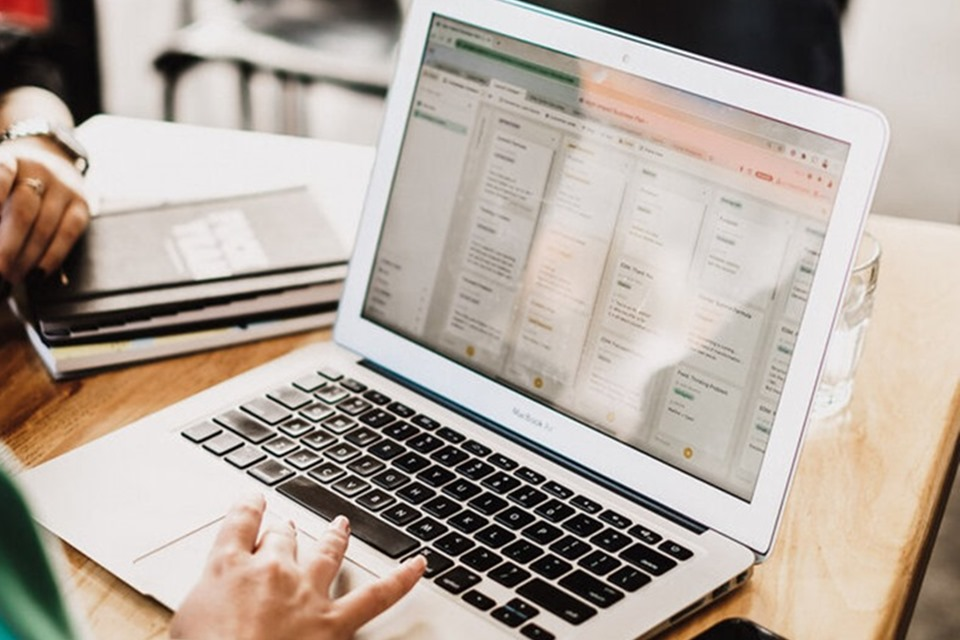
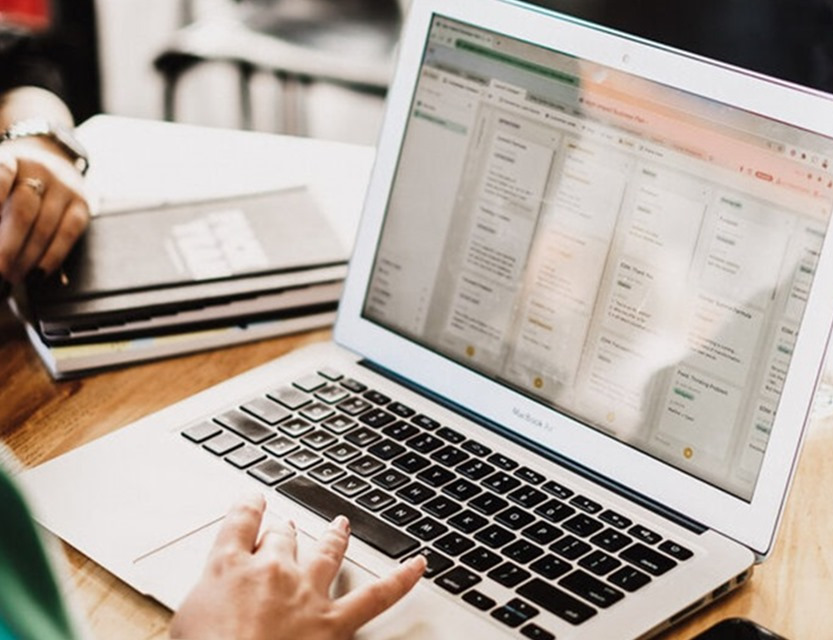
Ajustes al hero

diff --git a/src/App.jsx b/src/App.jsx
@@ -38,12 +38,12 @@ function App() {
   const heros = [
     {
       title: "Lleva tu contabilidad con estrategias fiscales y empresariales",
-      subtitle1: "¡Despreocúpate de tu contabilidad! Maneja tus asuntos contables con nosotros de forma segura y confiable",
+      subtitle1: "¡Despreocúpate de tu contabilidad! Maneja tus asuntos contables con nosotros de forma segura",
       img: img1
     },
     {
-      title: "Lleva tu contabilidad general con nosotros",
-      subtitle1: "Manejamos todo lo relacionado con declaraciones fiscales",
+      title: "Lleva tu contabilidad general con el apoyo de nosotros",
+      subtitle1: "Manejamos todos los trámites relacionados con declaraciones fiscales basados en nuestros valores",
       img: img2 
     }
   ]

diff --git a/src/Components/Hero.jsx b/src/Components/Hero.jsx
@@ -30,7 +30,7 @@ const Hero = (props) => {
     },
   }));
 
-  return <Box sx={{backgroundColor: "#E6F0FF"}} height={{ xs: "950px", sm: "65vh" }}>
+  return <Box sx={{backgroundColor: "#E6F0FF"}} height={{ xs: "880px", sm: "65vh" }}>
     <Grid container >
       <Grid item xs={12} sm={6}>
         <Box sx={{flex: "1"}} mx={{ xs: '30px', sm:'60px' }} my={{ xs: '30px', sm:'60px' }}>
@@ -65,9 +65,9 @@ const Hero = (props) => {
             <img 
               src={props.img}
               alt="despachoContable"
-              style={{ height: "100%" }}
+              style={{ width:'100%' }}
             />
-      </Box>
+        </Box>
       </Grid>
     </Grid>
   </Box>; 
